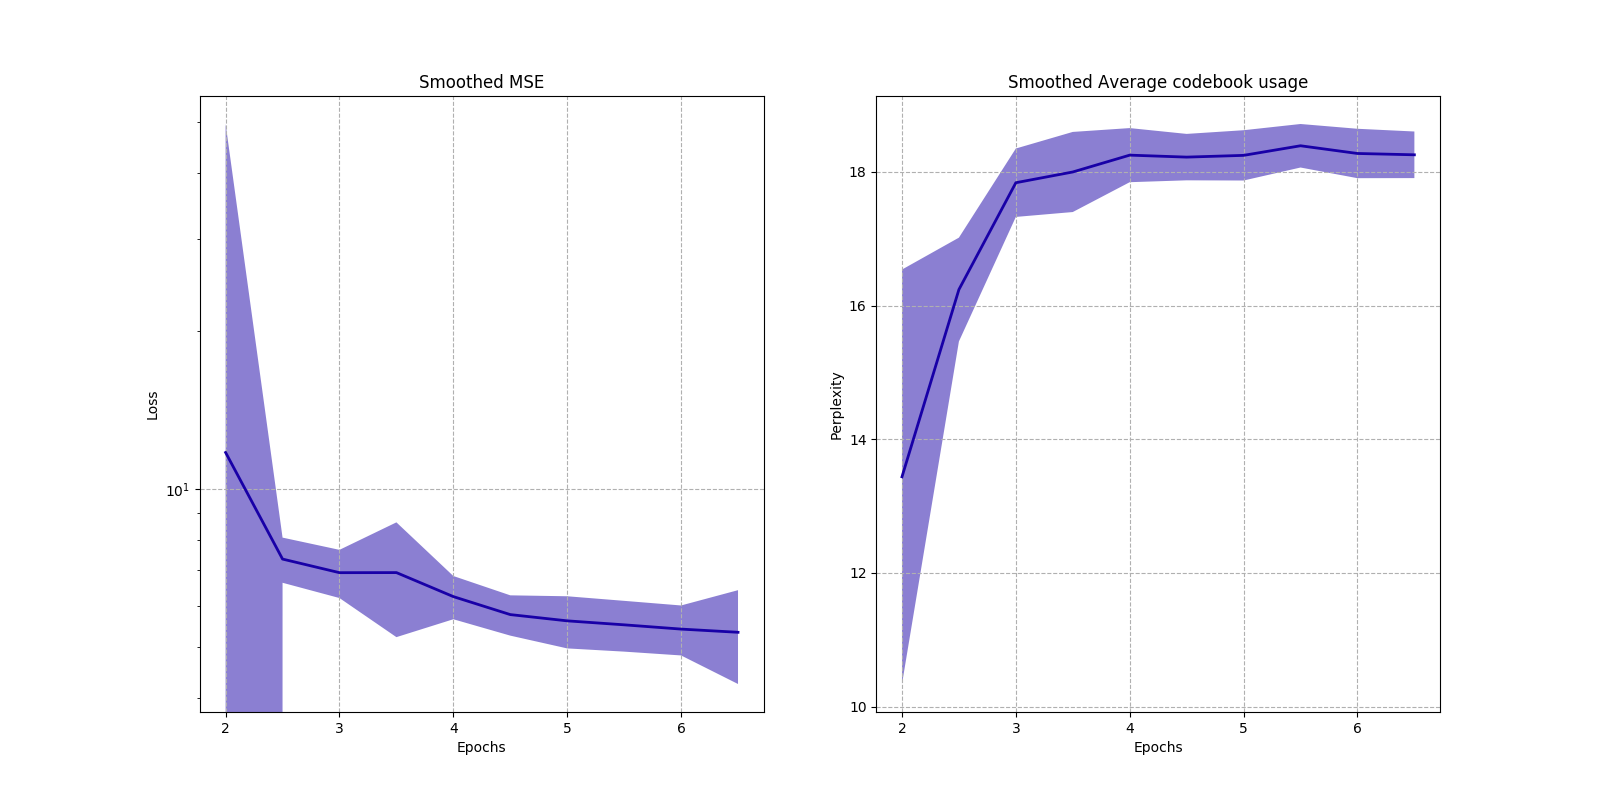
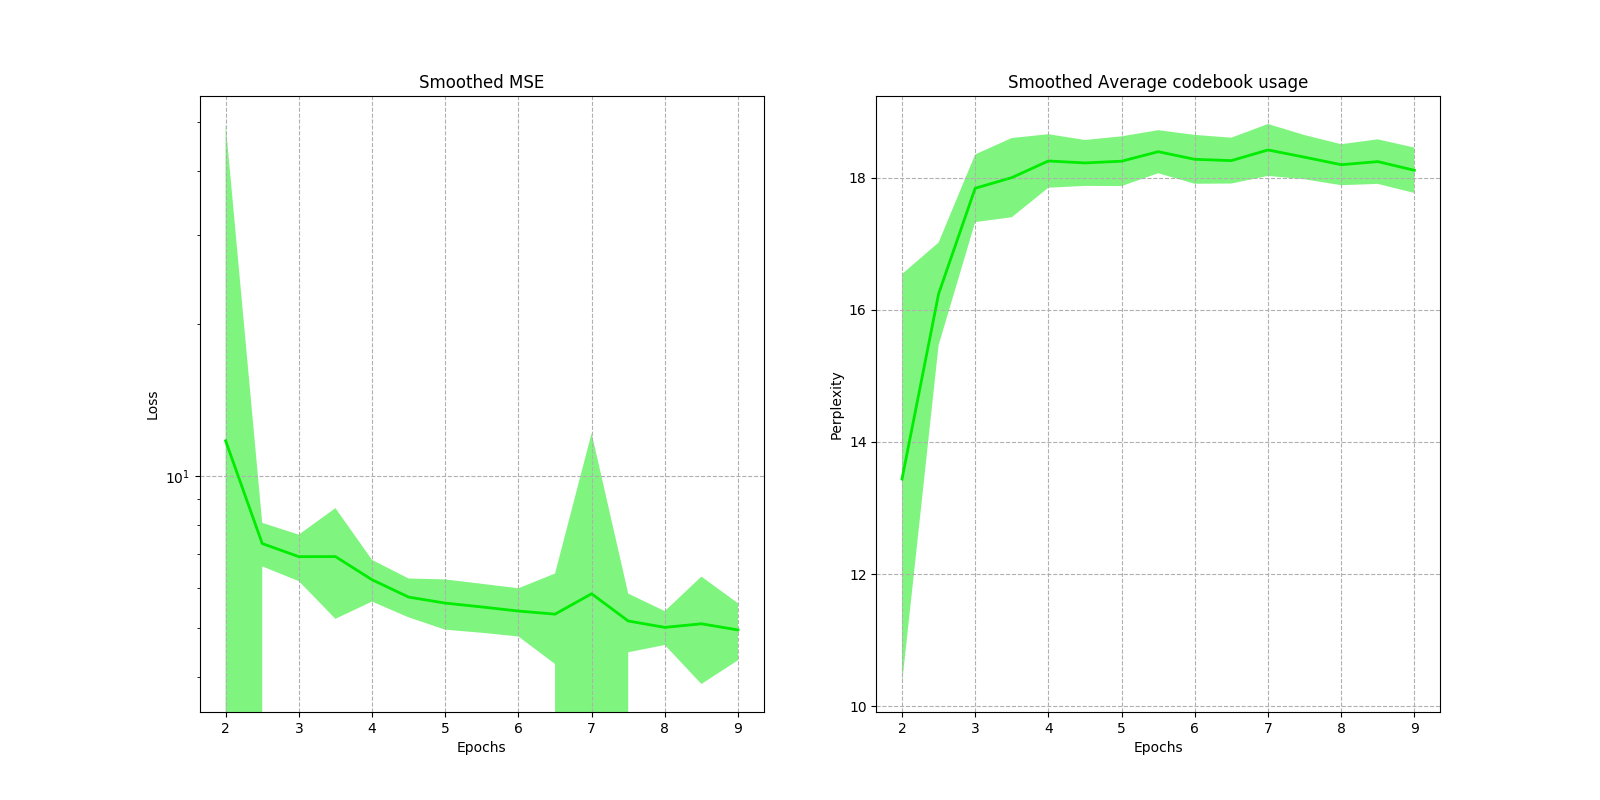
Try to fix the reconstruction of logfbank

Changed region(s): [[0.0938, 0.1875, 0.4688, 0.9062], [0.5312, 0.1562, 0.9062, 0.8125]]

diff --git a/src/vq_vae_features/features_auto_encoder.py b/src/vq_vae_features/features_auto_encoder.py
@@ -25,6 +25,7 @@
  #####################################################################################
 
 from vq_vae_speech.speech_encoder import SpeechEncoder
+from vq_vae_speech.speech_features import SpeechFeatures
 from vq_vae_features.features_decoder import FeaturesDecoder
 from vq.vector_quantizer import VectorQuantizer
 from vq.vector_quantizer_ema import VectorQuantizerEMA
@@ -76,7 +77,7 @@ class FeaturesAutoEncoder(nn.Module):
 
         self._decoder = FeaturesDecoder(
             in_channels=configuration['embedding_dim'],
-            out_channels=configuration['output_features_dim'],
+            out_channels=1,
             num_hiddens=configuration['num_hiddens'],
             num_residual_layers=configuration['num_residual_layers'],
             num_residual_hiddens=configuration['residual_channels'],
@@ -86,6 +87,7 @@ class FeaturesAutoEncoder(nn.Module):
         )
 
         self._output_features_filters = configuration['output_features_filters'] * 3 if configuration['augment_output_features'] else configuration['output_features_filters']
+        self._output_features_dim = configuration['output_features_dim']
         self._device = device
 
         self._criterion = nn.MSELoss()
@@ -109,17 +111,26 @@ class FeaturesAutoEncoder(nn.Module):
 
     def forward(self, x, y):
         z = self._encoder(x)
-        
+
         z = self._pre_vq_conv(z)
 
         vq_loss, quantized, perplexity, _, _ = self._vq(z)
 
         reconstructed_x = self._decoder(quantized)
 
-        reconstructed_x = reconstructed_x.view(-1, reconstructed_x.shape[1], self._output_features_filters)
-        
-        #reconstruction_loss = self._criterion(torch.log(F.softmax(reconstructed_x, dim=0)), F.softmax(y.float(), dim=0))
-        reconstruction_loss = self._criterion(reconstructed_x, y.float())
+        reconstructed_x_features = SpeechFeatures.features_from_name(
+            name='logfbank',
+            signal=reconstructed_x.detach().cpu(),
+            rate=16000,
+            filters_number=self._output_features_filters,
+            augmented=False
+        )
+        reconstructed_x_features = torch.tensor(reconstructed_x_features, dtype=torch.float).to(self._device)
+
+        reconstruction_loss = self._criterion(reconstructed_x_features.view(1, self._output_features_dim, self._output_features_filters), y.float()) # MSELoss
+
+        #reconstruction_loss = self._criterion(F.log_softmax(reconstructed_x, dim=1), F.softmax(y.float(), dim=1)) # KLDivLoss
+
         loss = vq_loss + reconstruction_loss
 
         return loss, reconstructed_x, perplexity

diff --git a/src/vq_vae_features/features_decoder.py b/src/vq_vae_features/features_decoder.py
@@ -50,6 +50,8 @@ class FeaturesDecoder(nn.Module):
             padding=1,
             use_kaiming_normal=use_kaiming_normal
         )
+
+        self._upsample = nn.Upsample(scale_factor=320)
         
         self._residual_stack = ResidualStack(
             in_channels=num_hiddens,
@@ -77,18 +79,8 @@ class FeaturesDecoder(nn.Module):
         
         self._conv_trans_3 = ConvTranspose1DBuilder.build(
             in_channels=num_hiddens,
-            out_channels=num_hiddens,
-            kernel_size=3, 
-            stride=2,
-            padding=0,
-            use_kaiming_normal=use_kaiming_normal
-        )
-
-        self._conv_trans_4 = ConvTranspose1DBuilder.build(
-            in_channels=num_hiddens,
             out_channels=out_channels,
-            kernel_size=3, 
-            stride=2,
+            kernel_size=2,
             padding=0,
             use_kaiming_normal=use_kaiming_normal
         )
@@ -100,6 +92,8 @@ class FeaturesDecoder(nn.Module):
             x = self._jitter(x)
 
         x = self._conv_1(x)
+
+        x = self._upsample(x)
         
         x = self._residual_stack(x)
         
@@ -108,7 +102,5 @@ class FeaturesDecoder(nn.Module):
         x = F.relu(self._conv_trans_2(x))
 
         x = self._conv_trans_3(x)
-
-        x = self._conv_trans_4(x)
         
         return x

diff --git a/src/vq_vae_speech/speech_encoder.py b/src/vq_vae_speech/speech_encoder.py
@@ -46,7 +46,7 @@ class SpeechEncoder(nn.Module):
         """
 
         self._conv_1 = Conv1DBuilder.build(
-            in_channels=in_channels,
+            in_channels=39,
             out_channels=num_hiddens,
             kernel_size=3,
             use_kaiming_normal=use_kaiming_normal,
@@ -72,7 +72,7 @@ class SpeechEncoder(nn.Module):
             kernel_size=4,
             stride=2,
             use_kaiming_normal=use_kaiming_normal,
-            padding=1
+            padding=2
         )
 
         """
@@ -114,7 +114,9 @@ class SpeechEncoder(nn.Module):
         self._device = device
 
     def forward(self, inputs):
-        x_conv_1 = F.relu(self._conv_1(inputs.view(-1, inputs.shape[1], self._features_filters).float()))
+        x = inputs.permute(0, 2, 1).contiguous().float()
+
+        x_conv_1 = F.relu(self._conv_1(x))
 
         x = F.relu(self._conv_2(x_conv_1)) + x_conv_1
         

diff --git a/src/experiments/device_configuration.py b/src/experiments/device_configuration.py
@@ -59,6 +59,12 @@ class DeviceConfiguration(object):
         default_device = 'cuda' if use_cuda else 'cpu' # Use default cuda device if possible or use the cpu
         device = configuration['use_device'] if configuration['use_device'] is not None else default_device # Use a defined device if specified
         gpu_ids = [i for i in range(torch.cuda.device_count())] if configuration['use_data_parallel'] else [0] # Resolve the gpu ids if gpu parallelization is specified
+        if configuration['use_device'] and ':' in configuration['use_device']:
+            gpu_ids = [int(configuration['use_device'].split(':')[1])]
+
+        device = 'cuda:1'
+        gpu_ids = '[1]'
+
         use_data_parallel = True if configuration['use_data_parallel'] and use_cuda and len(gpu_ids) > 1 else False
 
         ConsoleLogger.status('The used device is: {}'.format(device))

diff --git a/src/dataset/vctk_features_stream.py b/src/dataset/vctk_features_stream.py
@@ -38,6 +38,10 @@ class VCTKFeaturesStream(object):
         self._training_data = VCTKFeaturesDataset(vctk_path, 'train')
         self._validation_data = VCTKFeaturesDataset(vctk_path, 'val')
         factor = 1 if len(gpu_ids) == 0 else len(gpu_ids)
+
+        factor = 1
+        configuration['batch_size'] = 1
+
         self._training_loader = DataLoader(
             self._training_data,
             batch_size=configuration['batch_size'] * factor,

diff --git a/src/experiments/model_factory.py b/src/experiments/model_factory.py
@@ -103,7 +103,7 @@ class ModelFactory(object):
 
         # Update the epoch number to begin with for the future training
         configuration['start_epoch'] = latest_epoch
-        
+
         # Load the device configuration from the configuration state
         device_configuration = DeviceConfiguration.load_from_configuration(configuration)
 

diff --git a/src/vq_vae_features/trainer.py b/src/vq_vae_features/trainer.py
@@ -60,6 +60,7 @@ class Trainer(object):
             for data in train_bar:
                 (data, _, _, quantized, _) = data
                 data = data.to(self._device)
+
                 quantized = quantized.to(self._device)
 
                 self._optimizer.zero_grad()
